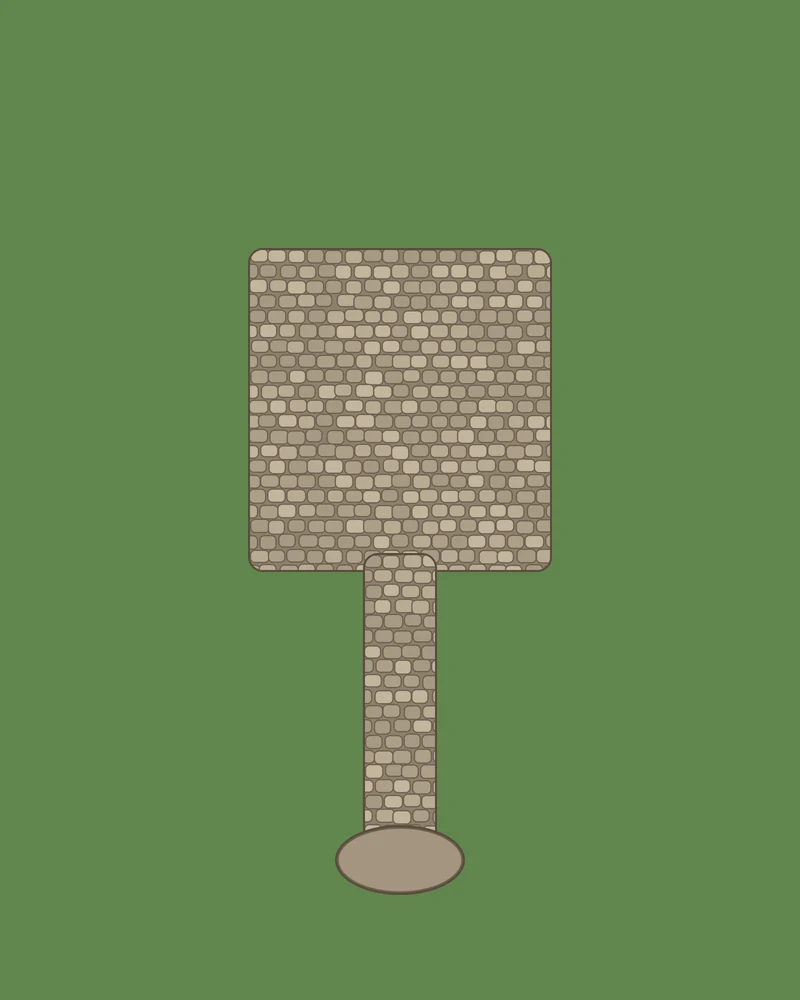
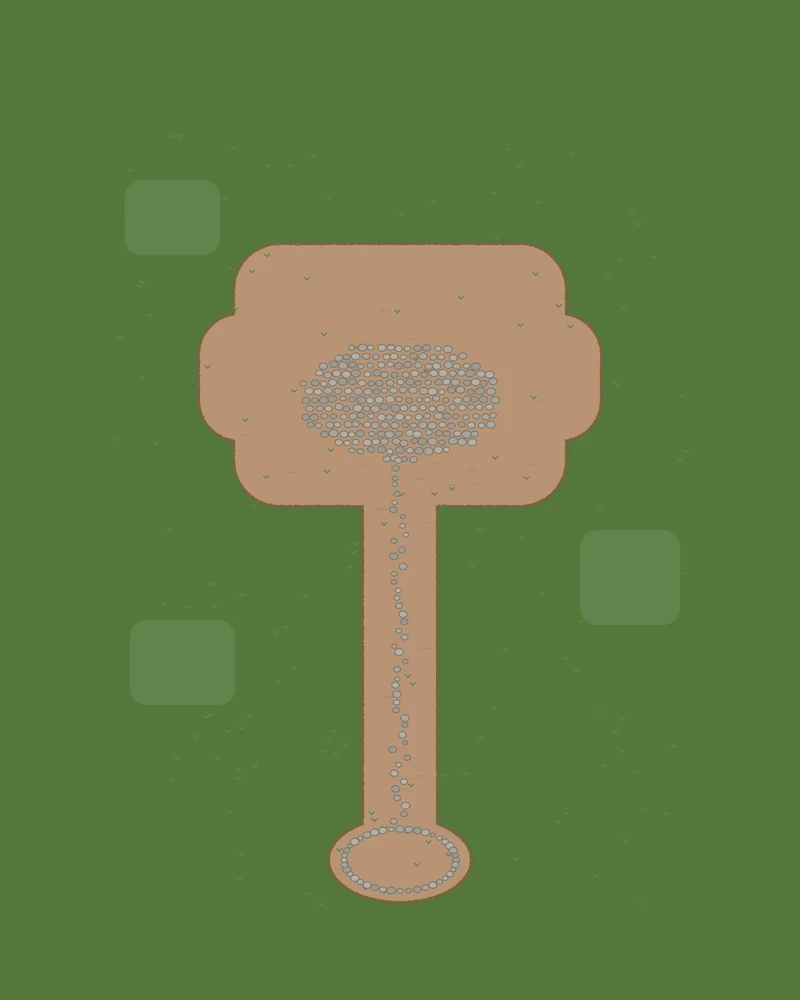
0.899.16: doors keep remote players moving; a cleaner courtyard
Two-player test in a guild hall found other players frozen at the door
after someone went through it: transitionPlayerMap dropped the walker's
motion interest, which a client only resends on a map change. Same-map
jumps (hall and Soul village doors) now keep it.

Remote figures walk any gap at their own speed; through a door that was
a 20-second walk across the dark. A figure whose new position is on the
other side of a door (shared/world-bounds.ts indoors) is placed there.

Sitting is drawn, not moved: anyone standing still within 26 of a stool
is drawn on it, so every client agrees without an extra packet.

Halls skip the map balance pin, as Home does; a player who may no longer
be on a soul or hall map reconnects at Home, not Tutorial Forest.

The courtyard ground uses the Soul village's colours: one fringed dirt
yard with a pebble oval, lighter grass patches, an evenly spaced ring of
trees, and no scattered tufts.

Changed region(s): [[0.25, 0.217, 0.75, 0.93]]

diff --git a/src/coop/services/presence-puppet.test.ts b/src/coop/services/presence-puppet.test.ts
@@ -9,7 +9,7 @@ const { encodePlayerMapFrame } = await import("../../../shared/player-motion-fra
 const me = new Identity("1".repeat(64)), farmer = new Identity("2".repeat(64)), walker = new Identity("3".repeat(64));
 const sites = [500, 900, 1300].map(x => ({ x, y: 600, type: "Bramble", campName: "Damage Camp", definition: { reward: { type: "damage" } } }));
 
-function harness() {
+function harness(mapId = "tutorial_forest") {
   const sent: { label: string; args?: unknown }[] = [];
   const handlers: Record<string, (ctx: unknown, ...rows: any[]) => void> = {};
   const connection: any = {
@@ -39,7 +39,7 @@ function harness() {
       sendReducer: (_label: string, run: (c: unknown) => void, _reject: unknown, accept?: () => void) => { run(connection); accept?.(); } },
     changes: { notify() {}, batch: (run: () => void) => run() },
   } as any);
-  presence.tables.upsertPlayer({ identity: me, mapId: "tutorial_forest", x: 100, y: 600, speed: 200, facing: 0, moving: false,
+  presence.tables.upsertPlayer({ identity: me, mapId, x: 100, y: 600, speed: 200, facing: 0, moving: false,
     motionEpoch: 1, lastInputSequence: 1, isVisible: true, controllerTabId: "tab" });
   return { presence, sent, handlers };
 }
@@ -156,4 +156,26 @@ it("draws everyone on the map, not only the nearest few, and walks every change 
     startedAt: new Timestamp(BigInt(Math.round(clock)) * 1_000n) });
   frames(120);
   expect(fastest).toBeLessThanOrEqual(150 / 30 + 1.01);
+});
+
+it("shows a guildmate going through the hall's door at the other side of it, but walks every other gap", () => {
+  const hall = "guild_hall_4";
+  const { presence } = harness(hall);
+  presence.api.setRemotePlayersVisible(true);
+  presence.tables.upsertMotionIdentity({ networkId: 10, identity: walker, mapId: hall, isVisible: true, zoneX: 0, zoneY: 0,
+    displayName: "Walker", profileIcon: 0, playerSprite: 0, skinTone: 0, isGuest: false, gender: 0, speed: 150, powerLevel: 1,
+    feetItem: "", headItem: "", chestItem: "", rightHandItem: "", leftHandItem: "" });
+  presence.api.syncMovementState(100, 600, 0, 0, "keyboard", false, undefined, { group: null, camp: null, sites });
+  const frame = (x: number, y: number) => presence.tables.upsertPlayerMapFrame({ mapId: hall, emittedAt: new Timestamp(BigInt(Math.round(clock)) * 1_000n),
+    playerCount: 1, payload: encodePlayerMapFrame([{ networkId: 10, x, y }]) });
+  const where = () => presence.api.remotePlayers().find(p => p.id === walker.toHexString())!;
+  const tick = () => { clock += 1_000 / 30; return where(); };
+  frame(800, 780);
+  expect(where()).toMatchObject({ x: 800, y: 780 });
+  // In at the door, out in the great hall: there at once.
+  clock += 500; frame(5300, 1171);
+  expect(tick()).toMatchObject({ x: 5300, y: 1171 });
+  // Across the hall: walked at their own speed (a step is at most a quarter second of walking).
+  clock += 500; frame(5600, 1171);
+  expect(tick().x).toBeLessThan(5300 + 150 * .25 + 1.01);
 });

diff --git a/spacetimedb/src/index.ts b/spacetimedb/src/index.ts
@@ -3501,8 +3501,9 @@ function enterWorldPresence(ctx: any, tabId: string, forceTakeover = false, supp
     }
     const normalizedMapId = canonicalMapId(existing.mapId);
     const entryMapId = VALID_MAP_IDS.has(normalizedMapId) && (!isSoulMap(normalizedMapId) || soulDimensionOpenFor(ctx, ctx.sender))
-      && (!isGuildHallMap(normalizedMapId) || guildHallMember(ctx, ctx.sender, normalizedMapId)) ? normalizedMapId : TUTORIAL_FOREST_MAP_ID;
-    const fallbackPosition = MAP_ARRIVALS[entryMapId as keyof typeof MAP_ARRIVALS] ?? PLAYER_SPAWN;
+      && (!isGuildHallMap(normalizedMapId) || guildHallMember(ctx, ctx.sender, normalizedMapId)) ? normalizedMapId
+      : isSoulMap(normalizedMapId) || isGuildHallMap(normalizedMapId) ? HOME_EXTERIOR_MAP_ID : TUTORIAL_FOREST_MAP_ID;
+    const fallbackPosition = entryMapId === HOME_EXTERIOR_MAP_ID ? HOME_EXTERIOR_SPAWN : MAP_ARRIVALS[entryMapId as keyof typeof MAP_ARRIVALS] ?? PLAYER_SPAWN;
     const entryPosition = entryMapId === normalizedMapId
       ? {
         x: Math.max(PLAYER_RADIUS, Math.min(worldBoundsFor(entryMapId).width - PLAYER_RADIUS, existing.x)),
@@ -5779,9 +5780,8 @@ function transitionPlayerMap(
   arrival: { x: number; y: number },
   facing = current.facing,
 ) {
-  if (ctx.db.playerMotionInterest.identity.find(current.identity)) {
-    ctx.db.playerMotionInterest.identity.delete(current.identity);
-  }
+  // Through a door on the same map (Soul village, guild hall) the client keeps its interest and never resends it.
+  if (mapId !== current.mapId && ctx.db.playerMotionInterest.identity.find(current.identity)) ctx.db.playerMotionInterest.identity.delete(current.identity);
   const currentMotion = ctx.db.playerMotion.identity.find(current.identity);
   const nextPlayer = {
     ...current,
@@ -5805,8 +5805,8 @@ function transitionPlayerMap(
   syncPlayerMotionIdentity(ctx, nextPlayer, { motion });
   syncPlayerMapMarker(ctx, nextPlayer, true);
   ensureRealtimeFrameSchedules(ctx);
-  // Home has no enemies: nothing reads a pin there, and the old pin still fits on the way back.
-  if (mapId !== HOME_EXTERIOR_MAP_ID) pinMapBalance(ctx, mapId);
+  // Home and guild halls have no enemies: nothing reads a pin there, and the old pin still fits on the way back.
+  if (mapId !== HOME_EXTERIOR_MAP_ID && !isGuildHallMap(mapId)) pinMapBalance(ctx, mapId);
   recordAnalyticsMapVisit(ctx, mapId);
   return nextPlayer;
 }

diff --git a/src/game/runtime/guild-hall-runtime.ts b/src/game/runtime/guild-hall-runtime.ts
@@ -1,7 +1,7 @@
 import {
   EMPTY_GUILD_HALL_LEVELS, GUILD_HALL_DOOR, GUILD_HALL_FEET_OFFSET, guildHallGuildId, guildHallRoom, isGuildHallMap, type GuildHallLevels,
 } from "../../../shared/guild-hall";
-import { guildHallBoard, guildHallDecor, guildHallDoorState, guildHallSeats, guildHallShown, guildHallSolids, type GuildHallSeat } from "../guild-hall";
+import { guildHallBoard, guildHallDecor, guildHallDoorState, guildHallSeatAt, guildHallSeats, guildHallShown, guildHallSolids } from "../guild-hall";
 import type { SoulSolid } from "../soul-village";
 import type { MapId, WorldDecor } from "../world";
 import { pushOutOf } from "./soul-dimension-runtime";
@@ -18,8 +18,6 @@ const FEET_RADIUS = 12;
 const DOOR_OPEN_RANGE = 120;
 /** Going through: a few steps into the doorway while the screen goes dark. */
 const DOORWAY_STEP = 22, DOORWAY_MS = 240;
-/** Standing still with feet this near a seat sits down in it. */
-const SIT_RANGE = 26;
 /** Feet this near the upgrade board open it. */
 const BOARD_RANGE = 55;
 /** Sitting faces the table: north seats look down at it, south seats up. Facing is an angle, y down. */
@@ -134,20 +132,12 @@ export function createGuildHallRuntime(deps: {
     if (inRoom && heading > 0 && Math.abs(feetX - room.exit.x) < room.exit.half && feetY > room.exit.y + 4) startDoorway(false);
   }
 
-  /** Standing still by a seat sits down in it: on its spot, facing the table. */
+  /** Standing still by a seat sits down in it, facing the table (the renderer draws them on the seat itself). */
   function checkSeat() {
     const { player } = deps;
     if (player.moving || player.hp <= 0) return;
-    const feetY = player.y + FEET_OFFSET;
-    let nearest: GuildHallSeat | null = null, distance = SIT_RANGE;
-    for (const seat of guildHallShown.seats) {
-      const d = Math.hypot(seat.x - player.x, seat.y - feetY);
-      if (d < distance) { nearest = seat; distance = d; }
-    }
-    if (!nearest) return;
-    player.x = nearest.x;
-    player.y = nearest.y - FEET_OFFSET;
-    player.facing = SEAT_FACING[nearest.side];
+    const seat = guildHallSeatAt(player.x, player.y + FEET_OFFSET);
+    if (seat) player.facing = SEAT_FACING[seat.side];
   }
 
   function checkBoard() {

diff --git a/src/coop/services/presence-service.ts b/src/coop/services/presence-service.ts
@@ -1,4 +1,5 @@
 import { isSoulMap } from "../../../shared/soul-dimension";
+import { indoors } from "../../../shared/world-bounds";
 import { isGuildHallMap } from "../../../shared/guild-hall";
 import { worldBoundsFor } from "../../../shared/world-bounds";
 import { parseReleaseWindow } from "../../../shared/release-window";
@@ -839,7 +840,7 @@ export function createPresenceService(dependencies: PresenceServiceDependencies)
     return { pose: puppetPoseAt(puppet.plan, puppet.legs, serverNow), simulationX: simulation.x, simulationY: simulation.y };
   }
 
-  /** Draws the nearest figures toward their targets: placed when first seen, walked ever after. */
+  /** Draws the nearest figures toward their targets: placed when first seen or through a door, walked ever after. */
   function drawFigures(targets: Map<string, FigureTarget>, now: number, serverNow: number, out: RemotePlayer[]) {
     const origin = localState;
     const ordered = [...targets].sort(([, a], [, b]) => origin
@@ -856,7 +857,10 @@ export function createPresenceService(dependencies: PresenceServiceDependencies)
         figures.set(identity, shown = { figure, drawnAt: now, presentation });
       } else {
         if (shown.presentation !== presentation) { applyPresentation(shown.figure, presentation); shown.presentation = presentation; }
-        walkFigure(shown.figure, target.pose, Math.min(.25, Math.max(0, (now - shown.drawnAt) / 1_000)));
+        // Through a door: in at one and out of the other, not a walk across the dark between (shared/world-bounds.ts).
+        if (indoors(currentMapId, shown.figure.x, shown.figure.y) !== indoors(currentMapId, target.pose.x, target.pose.y)) {
+          Object.assign(shown.figure, { x: target.pose.x, y: target.pose.y, facing: target.pose.facing, moving: target.pose.moving });
+        } else walkFigure(shown.figure, target.pose, Math.min(.25, Math.max(0, (now - shown.drawnAt) / 1_000)));
         shown.drawnAt = now;
       }
       Object.assign(shown.figure, { simulationX: target.simulationX, simulationY: target.simulationY, throwClock: undefined });

diff --git a/src/game/runtime/guild-hall-runtime.test.ts b/src/game/runtime/guild-hall-runtime.test.ts
@@ -1,6 +1,6 @@
 import { expect, it, vi } from "vitest";
 import { EMPTY_GUILD_HALL_LEVELS, GUILD_HALL_DOOR, GUILD_HALL_FEET_OFFSET, guildHallRoom, type GuildHallLevels } from "../../../shared/guild-hall";
-import { guildHallBoard, guildHallDoorState, guildHallSeats, guildHallShown } from "../guild-hall";
+import { guildHallBoard, guildHallDoorState, guildHallSeatAt, guildHallSeats, guildHallShown } from "../guild-hall";
 import type { MapId, WorldDecor } from "../world";
 import { createGuildHallRuntime } from "./guild-hall-runtime";
 import type { PlayerState } from "./types";
@@ -52,17 +52,19 @@ it("opens the door as a member walks up, takes them in on the dark, and out of t
   expect([h.player.x, h.player.y]).toEqual([GUILD_HALL_DOOR.outside.x, GUILD_HALL_DOOR.outside.y]);
 });
 
-it("sits a player down when they stop by a seat, facing the table", () => {
+it("sits a player down when they stop by a seat, facing the table, without moving them", () => {
   const h = hall();
   h.step();
   const [north] = guildHallSeats(EMPTY_GUILD_HALL_LEVELS).filter(seat => seat.side === "north");
   const south = guildHallSeats(EMPTY_GUILD_HALL_LEVELS).find(seat => seat.side === "south")!;
   Object.assign(h.player, { x: south.x + 10, y: south.y - GUILD_HALL_FEET_OFFSET + 8, moving: true });
   h.step();
-  expect(h.player.x).toBe(south.x + 10);
+  expect(h.player.facing).toBe(0);
   h.player.moving = false;
   h.step();
-  expect([h.player.x, h.player.y]).toEqual([south.x, south.y - GUILD_HALL_FEET_OFFSET]);
+  // The renderer draws them on the seat; their position, which other players see too, stays theirs.
+  expect([h.player.x, h.player.y]).toEqual([south.x + 10, south.y - GUILD_HALL_FEET_OFFSET + 8]);
+  expect(guildHallSeatAt(h.player.x, h.player.y + GUILD_HALL_FEET_OFFSET)).toEqual(south);
   expect(h.player.facing).toBeCloseTo(-Math.PI / 2);
   Object.assign(h.player, { x: north.x - 6, y: north.y - GUILD_HALL_FEET_OFFSET });
   h.step();

diff --git a/src/game/guild-hall.ts b/src/game/guild-hall.ts
@@ -36,12 +36,19 @@ export const GUILD_HALL_INTERIOR_LEFT = scene.interiorLeft;
 export const guildHallDoorState = { open: false };
 /** The hall's badge (its index in GUILD_EMBLEMS, -1 until the guild is known) and seats now: set by the runtime, drawn by the renderer. */
 export const guildHallShown: { emblem: number; size: number; seats: readonly GuildHallSeat[] } = { emblem: -1, size: 0, seats: [] };
-/** How close a standing player's feet must be to a seat to be sitting in it. */
-export const GUILD_HALL_SEATED_WITHIN = 4;
-/** The seat a player standing at this position (their feet a FEET_OFFSET below it) is sitting in, if any. */
+/**
+ * How close a standing player's feet must be to a seat to be sitting in it. Sitting is drawn, never moved: every
+ * client draws everyone from the positions it already has, so a sitter needs no packet the server would weigh.
+ */
+export const GUILD_HALL_SEATED_WITHIN = 26;
+/** The nearest seat a player standing with their feet here is sitting in, if any. */
 export function guildHallSeatAt(x: number, feetY: number) {
-  for (const seat of guildHallShown.seats) if (Math.abs(seat.x - x) <= GUILD_HALL_SEATED_WITHIN && Math.abs(seat.y - feetY) <= GUILD_HALL_SEATED_WITHIN) return seat;
-  return null;
+  let nearest: GuildHallSeat | null = null, distance = GUILD_HALL_SEATED_WITHIN;
+  for (const seat of guildHallShown.seats) {
+    const d = Math.hypot(seat.x - x, seat.y - feetY);
+    if (d < distance) { nearest = seat; distance = d; }
+  }
+  return nearest;
 }
 
 type Prop = (typeof scene.props)[number] & { open?: number; door?: number; ground?: boolean; shadow?: boolean;

diff --git a/src/game/runtime/world-render-runtime.ts b/src/game/runtime/world-render-runtime.ts
@@ -360,9 +360,9 @@ export function createWorldRenderRuntime(options: WorldRenderRuntimeOptions) {
       // Anyone standing still at a guild hall's table is drawn sitting at it.
       drawRemotePlayer: remote => {
         const seat = remote.moving ? null : seatedAt(remote.x, remote.y);
-        drawSeated(options.ctx, remote.y - options.camera.y, Boolean(seat), () => actor.drawRemotePlayer(seat ? { ...remote, facing: GUILD_HALL_SEAT_FACING[seat.side] } : remote));
+        drawSeated(options.ctx, remote.x, remote.y, remote.y - options.camera.y, seat, () => actor.drawRemotePlayer(seat ? { ...remote, facing: GUILD_HALL_SEAT_FACING[seat.side] } : remote));
       },
-      drawPlayer: () => drawSeated(options.ctx, options.player.y - options.camera.y, !options.player.moving && Boolean(seatedAt(options.player.x, options.player.y)), () => drawSoulWellFall(options.ctx, options.player.x - options.camera.x, options.player.y - options.camera.y, options.player.y,
+      drawPlayer: () => drawSeated(options.ctx, options.player.x, options.player.y, options.player.y - options.camera.y, options.player.moving ? null : seatedAt(options.player.x, options.player.y), () => drawSoulWellFall(options.ctx, options.player.x - options.camera.x, options.player.y - options.camera.y, options.player.y,
         () => drawHomeTeleport(options.ctx, options.player.x - options.camera.x, options.player.y - options.camera.y, () => actor.drawPlayer(
           frame.localIdentity(),
           options.publicPlayerName(frame.localIdentity(), frame.localDisplayName()),

diff --git a/shared/world-bounds.ts b/shared/world-bounds.ts
@@ -1,7 +1,7 @@
 import { HOME_EXTERIOR_MAP_ID, HOME_WORLD_HEIGHT, HOME_WORLD_WIDTH } from "./home";
 import { WORLD_HEIGHT, WORLD_WIDTH } from "./rules";
-import { SOUL_MAP_ID, SOUL_WORLD_SIZE } from "./soul-dimension";
-import { GUILD_HALL_WORLD, isGuildHallMap } from "./guild-hall";
+import { inSoulInteriors, SOUL_MAP_ID, SOUL_WORLD_SIZE } from "./soul-dimension";
+import { GUILD_HALL_INDOORS_LEFT, GUILD_HALL_WORLD, isGuildHallMap } from "./guild-hall";
 
 export type WorldBounds = { width: number; height: number };
 const CAMPAIGN_BOUNDS: WorldBounds = Object.freeze({ width: WORLD_WIDTH, height: WORLD_HEIGHT });
@@ -21,3 +21,15 @@ export function worldBoundsFor(mapId: string | null | undefined): WorldBounds {
 }
 /** Whether a map's positions need the wide (u32) motion format. */
 export const wideMotionMap = (mapId: string | null | undefined) => mapId === SOUL_MAP_ID;
+
+/**
+ * Whether a point is indoors: behind a door, in the rooms a map keeps far from
+ * its open ground (the Soul village's houses, a guild hall's great hall). Maps
+ * without doors are all outdoors. Someone on the other side of a door went
+ * through it, so they are not walked across the dark between.
+ */
+export function indoors(mapId: string | null | undefined, x: number, y: number) {
+  if (mapId === SOUL_MAP_ID) return inSoulInteriors(x, y);
+  if (isGuildHallMap(mapId)) return x >= GUILD_HALL_INDOORS_LEFT;
+  return false;
+}

diff --git a/src/game/runtime/guild-hall-render.ts b/src/game/runtime/guild-hall-render.ts
@@ -13,17 +13,19 @@ export const GUILD_HALL_SEAT_FACING: Readonly<Record<GuildHallSeat["side"], numb
 export const seatedAt = (x: number, y: number) => guildHallShown.seats.length ? guildHallSeatAt(x, y + GUILD_HALL_FEET_OFFSET) : null;
 
 /**
- * Draws someone sitting at the great table: their legs (under the table top or
- * on the stool) cut away and the body lowered onto the seat. `screenY` is
- * their position on screen; anyone not seated is drawn as they are.
+ * Draws someone sitting at the great table: moved onto the seat, their legs
+ * (under the table top or on the stool) cut away and the body lowered onto it.
+ * `x`, `y` are their world position and `screenY` where that is on screen;
+ * anyone not seated is drawn as they are.
  */
-export function drawSeated(ctx: CanvasRenderingContext2D, screenY: number, seated: boolean, draw: () => void) {
-  if (!seated) { draw(); return; }
+export function drawSeated(ctx: CanvasRenderingContext2D, x: number, y: number, screenY: number, seat: GuildHallSeat | null, draw: () => void) {
+  if (!seat) { draw(); return; }
+  const dx = seat.x - x, dy = seat.y - GUILD_HALL_FEET_OFFSET - y;
   ctx.save();
   ctx.beginPath();
-  ctx.rect(-1e5, -1e5, 2e5, 1e5 + screenY + SIT_CLIP);
+  ctx.rect(-1e5, -1e5, 2e5, 1e5 + screenY + dy + SIT_CLIP);
   ctx.clip();
-  ctx.translate(0, SIT_DROP);
+  ctx.translate(dx, dy + SIT_DROP);
   draw();
   ctx.restore();
 }

diff --git a/spacetimedb/src/guild-hall.test.ts b/spacetimedb/src/guild-hall.test.ts
@@ -118,3 +118,16 @@ it("sends a member who leaves home from the hall, and takes the hall with the gu
   expect(f.me().mapId).toBe(HOME_EXTERIOR_MAP_ID);
   expect(f.db.guildHall.guildId.find(guildId)).toBeFalsy();
 });
+
+it("keeps who a member is watching through the door, so the guildmates they see keep moving", () => {
+  const f = fixture(); const guildId = f.guild(["1"], "Rose");
+  const hall = guildHallMapId(guildId);
+  f.run(server.changeMap, { mapId: hall, x: 4050, y: 4050 });
+  f.place(hall, GUILD_HALL_DOOR.outside.x, GUILD_HALL_DOOR.outside.y);
+  f.seed("playerMotionInterest", { identity: f.ctx.sender, networkIds: [7] });
+  f.run(server.useGuildHallDoor, {});
+  expect(f.db.playerMotionInterest.identity.find(f.ctx.sender)?.networkIds).toEqual([7]);
+  // A real map change still drops it: the client asks again for the new map.
+  f.run(server.changeMap, { mapId: HOME_EXTERIOR_MAP_ID, x: f.me().x, y: f.me().y });
+  expect(f.db.playerMotionInterest.identity.find(f.ctx.sender)).toBeFalsy();
+});

diff --git a/shared/guild-hall.ts b/shared/guild-hall.ts
@@ -75,6 +75,8 @@ export const GUILD_HALL_ROOMS = geometry.rooms.map(room => {
   return Object.freeze({ left: x, top: y, right: x + w, bottom: y + h, exit: room.exit,
     inside: { x: room.exit.x, y: room.exit.y - 60 - GUILD_HALL_FEET_OFFSET } });
 });
+/** Everything east of this is indoors: the great hall's rooms and the dark round them. */
+export const GUILD_HALL_INDOORS_LEFT = Math.min(...GUILD_HALL_ROOMS.map(room => room.left)) - 400;
 /** The room of a hall this size. */
 export const guildHallRoom = (size: number) => GUILD_HALL_ROOMS[Math.max(0, Math.min(GUILD_HALL_ROOMS.length - 1, size))];
 /**

diff --git a/src/game/map-design.ts b/src/game/map-design.ts
@@ -221,7 +221,7 @@ export function savedMapName(mapId: string) {
 }
 
 /** Every guild hall's: the courtyard's grass round its baked ground. */
-const GUILD_HALL_THEME: MapVisualTheme = { ground: "#61864e", path: "#b89070", pathDetail: "rgba(120,80,50,.15)", decorColors: {} };
+const GUILD_HALL_THEME: MapVisualTheme = { ground: "#54783c", path: "#b89070", pathDetail: "rgba(120,80,50,.15)", decorColors: {} };
 
 export function mapVisualTheme(mapId: MapId): MapVisualTheme {
   const cached = resolvedThemeCache.get(mapId);
